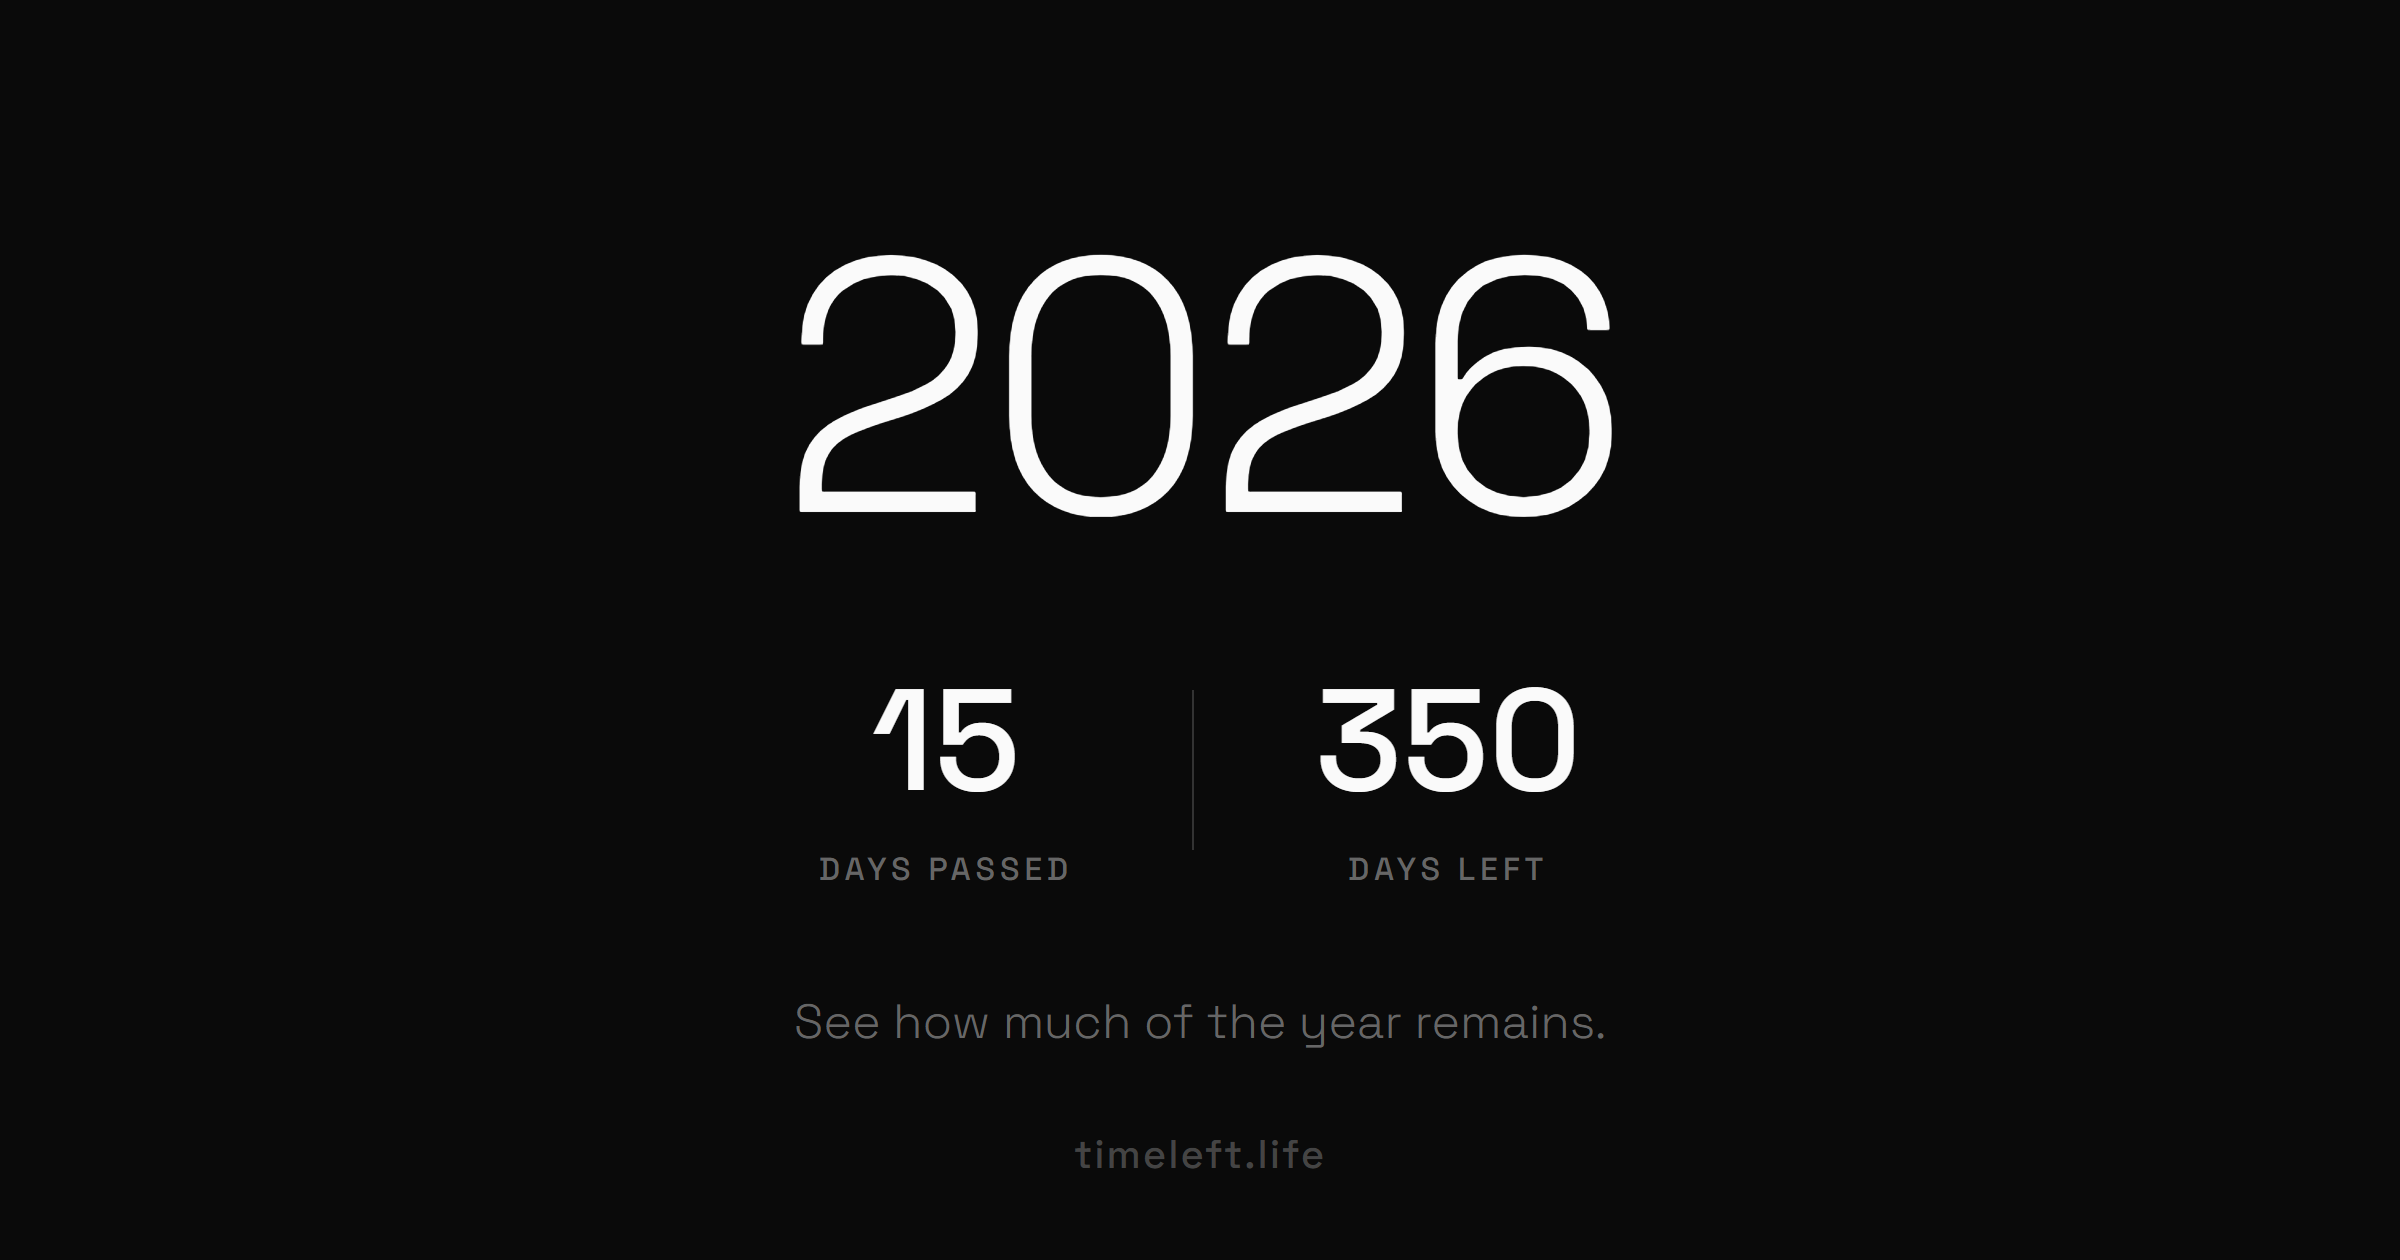
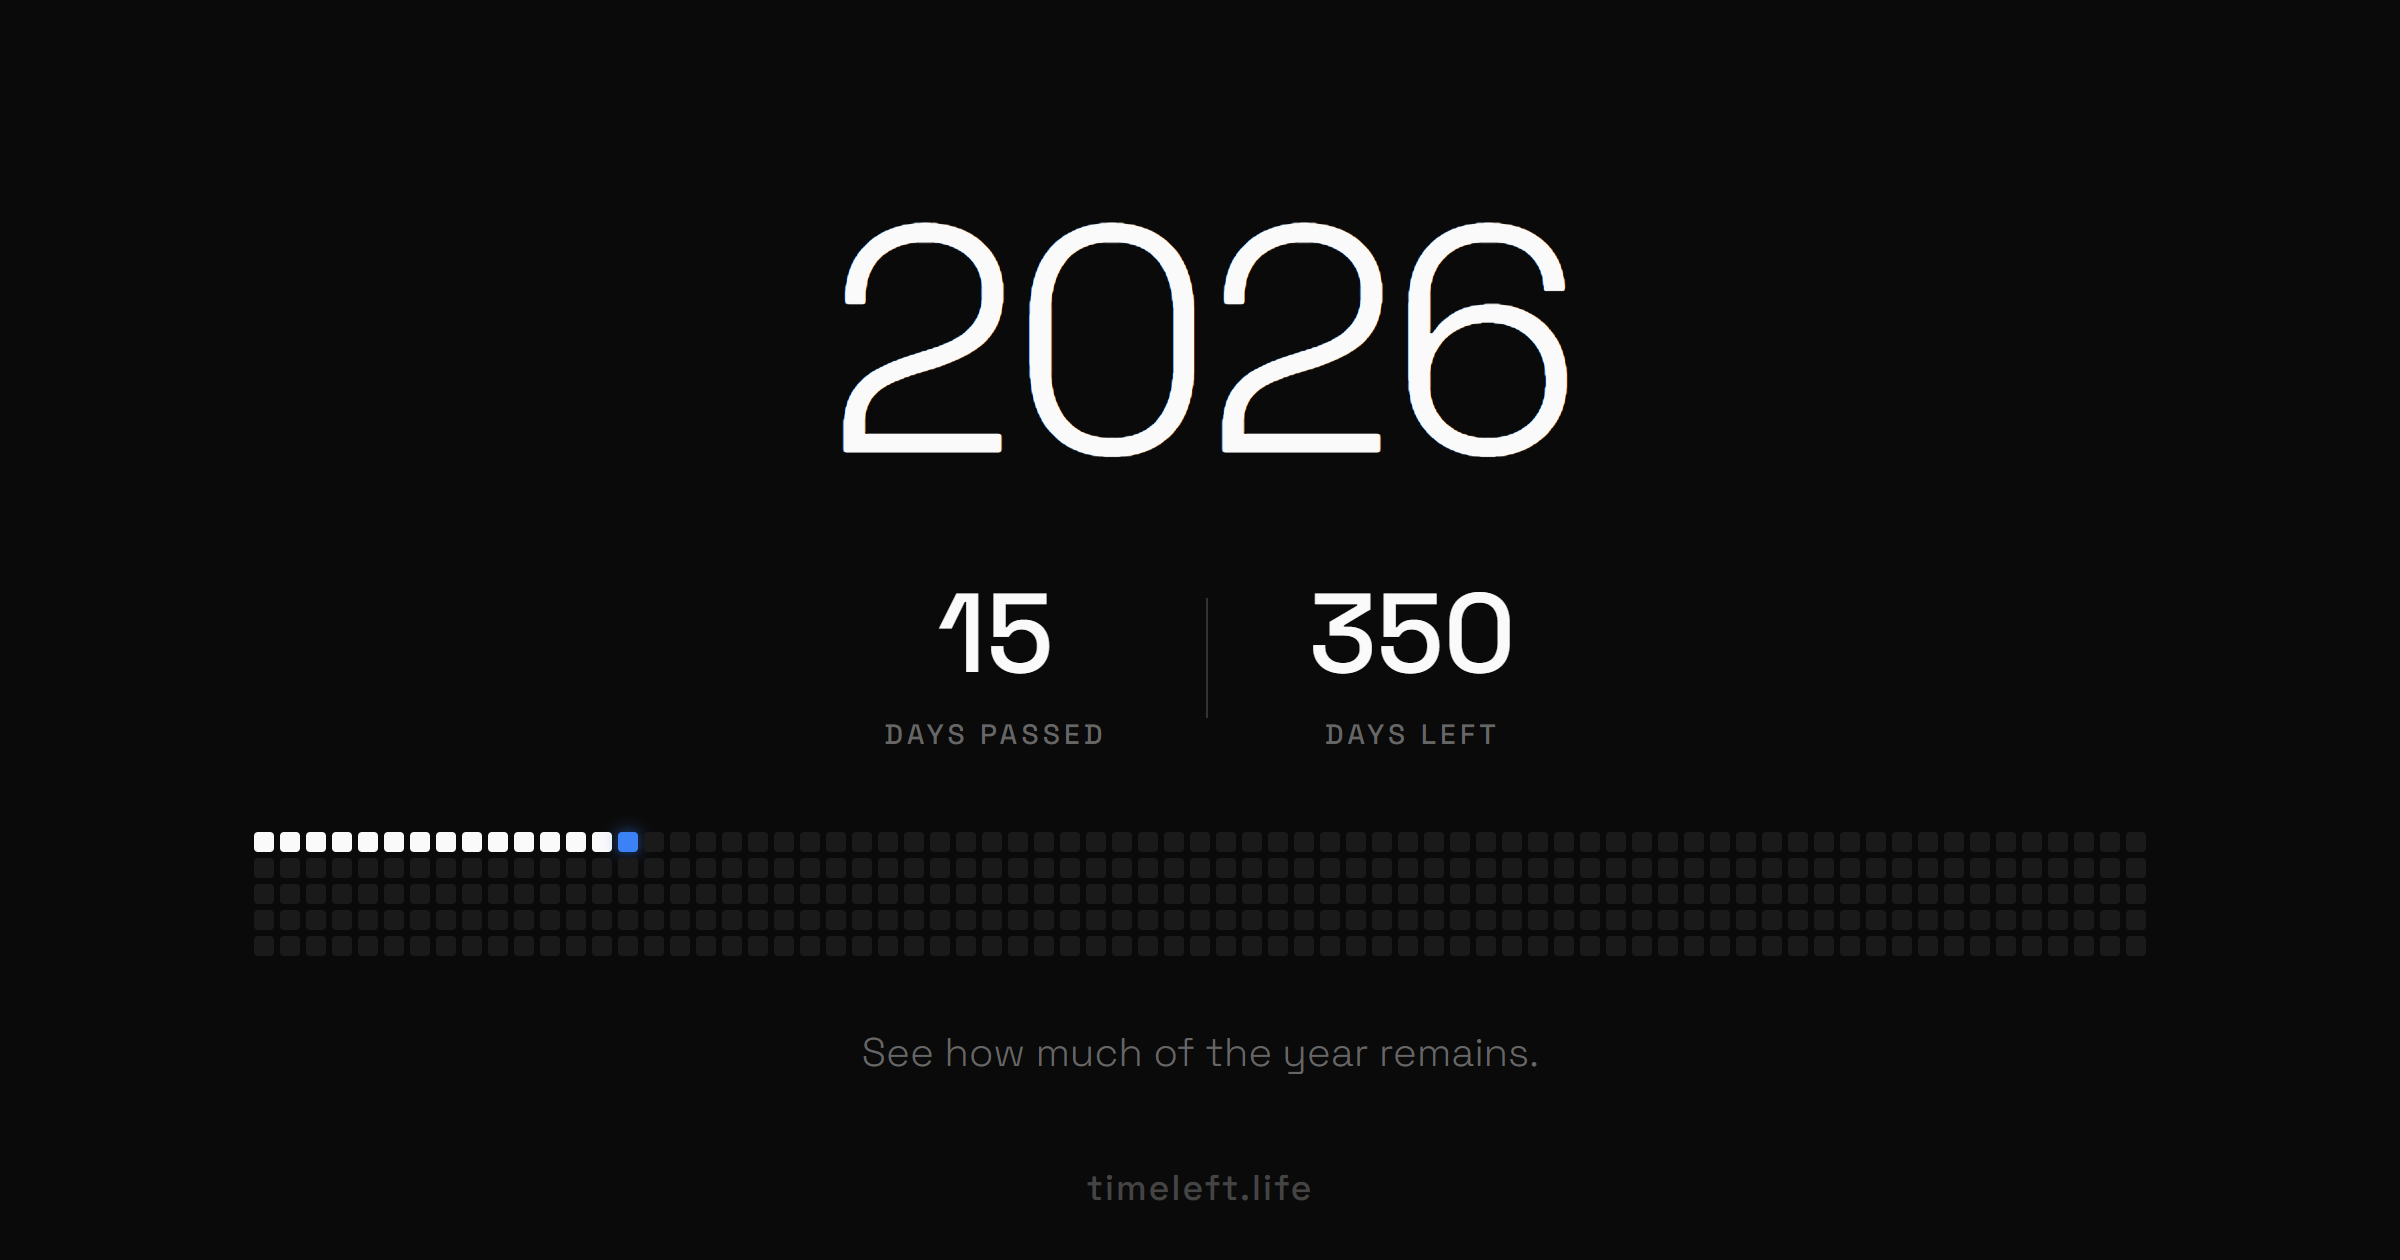
Update og-image with days grid visualization
- Added 365 dots grid showing year progress
- Filled dots for days passed, blue dot for today
- Cache bust v3 for Twitter refresh

diff --git a/public/og-preview.html b/public/og-preview.html
@@ -17,10 +17,11 @@
             align-items: center;
             justify-content: center;
             color: #fafafa;
+            position: relative;
         }
 
         .year {
-            font-size: 180px;
+            font-size: 160px;
             font-weight: 300;
             letter-spacing: -0.03em;
             line-height: 1;
@@ -29,8 +30,8 @@
         .stats {
             display: flex;
             align-items: center;
-            gap: 60px;
-            margin-top: 40px;
+            gap: 50px;
+            margin-top: 30px;
         }
 
         .stat {
@@ -38,35 +39,59 @@
         }
 
         .stat-number {
-            font-size: 72px;
+            font-size: 56px;
             font-weight: 500;
         }
 
         .stat-label {
-            font-size: 16px;
+            font-size: 14px;
             color: #666;
             text-transform: uppercase;
             letter-spacing: 0.15em;
-            margin-top: 8px;
+            margin-top: 6px;
         }
 
         .divider {
             width: 1px;
-            height: 80px;
+            height: 60px;
             background: #333;
         }
 
+        .grid {
+            display: grid;
+            grid-template-columns: repeat(73, 10px);
+            gap: 3px;
+            margin-top: 40px;
+            padding: 0 40px;
+        }
+
+        .dot {
+            width: 10px;
+            height: 10px;
+            border-radius: 2px;
+            background: #1a1a1a;
+        }
+
+        .dot.filled {
+            background: #fafafa;
+        }
+
+        .dot.today {
+            background: #3b82f6;
+            box-shadow: 0 0 8px rgba(59, 130, 246, 0.6);
+        }
+
         .tagline {
-            font-size: 24px;
+            font-size: 20px;
             color: #666;
-            margin-top: 50px;
+            margin-top: 35px;
             font-weight: 300;
         }
 
         .domain {
             position: absolute;
-            bottom: 40px;
-            font-size: 20px;
+            bottom: 25px;
+            font-size: 18px;
             color: #444;
             letter-spacing: 0.05em;
         }
@@ -87,8 +112,27 @@
         </div>
     </div>
 
+    <div class="grid" id="grid"></div>
+
     <div class="tagline">See how much of the year remains.</div>
 
     <div class="domain">timeleft.life</div>
+
+    <script>
+        const grid = document.getElementById('grid');
+        const totalDays = 365;
+        const daysPassed = 15;
+
+        for (let i = 0; i < totalDays; i++) {
+            const dot = document.createElement('div');
+            dot.className = 'dot';
+            if (i < daysPassed - 1) {
+                dot.classList.add('filled');
+            } else if (i === daysPassed - 1) {
+                dot.classList.add('today');
+            }
+            grid.appendChild(dot);
+        }
+    </script>
 </body>
 </html>

diff --git a/index.html b/index.html
@@ -34,7 +34,7 @@
     <meta property="og:url" content="https://timeleft.life/">
     <meta property="og:title" content="timeleft.life — See how much of the year remains">
     <meta property="og:description" content="Track the days passed and remaining in the current year. A minimal, reflective tool to visualize time.">
-    <meta property="og:image" content="https://timeleft.life/og-image.png?v=2">
+    <meta property="og:image" content="https://timeleft.life/og-image.png?v=3">
     <meta property="og:image:width" content="1200">
     <meta property="og:image:height" content="630">
     <meta property="og:site_name" content="timeleft.life">
@@ -45,7 +45,7 @@
     <meta name="twitter:url" content="https://timeleft.life/">
     <meta name="twitter:title" content="timeleft.life — See how much of the year remains">
     <meta name="twitter:description" content="Track the days passed and remaining in the current year. A minimal, reflective tool to visualize time.">
-    <meta name="twitter:image" content="https://timeleft.life/og-image.png?v=2">
+    <meta name="twitter:image" content="https://timeleft.life/og-image.png?v=3">
 
     <!-- Canonical URL -->
     <link rel="canonical" href="https://timeleft.life/">
